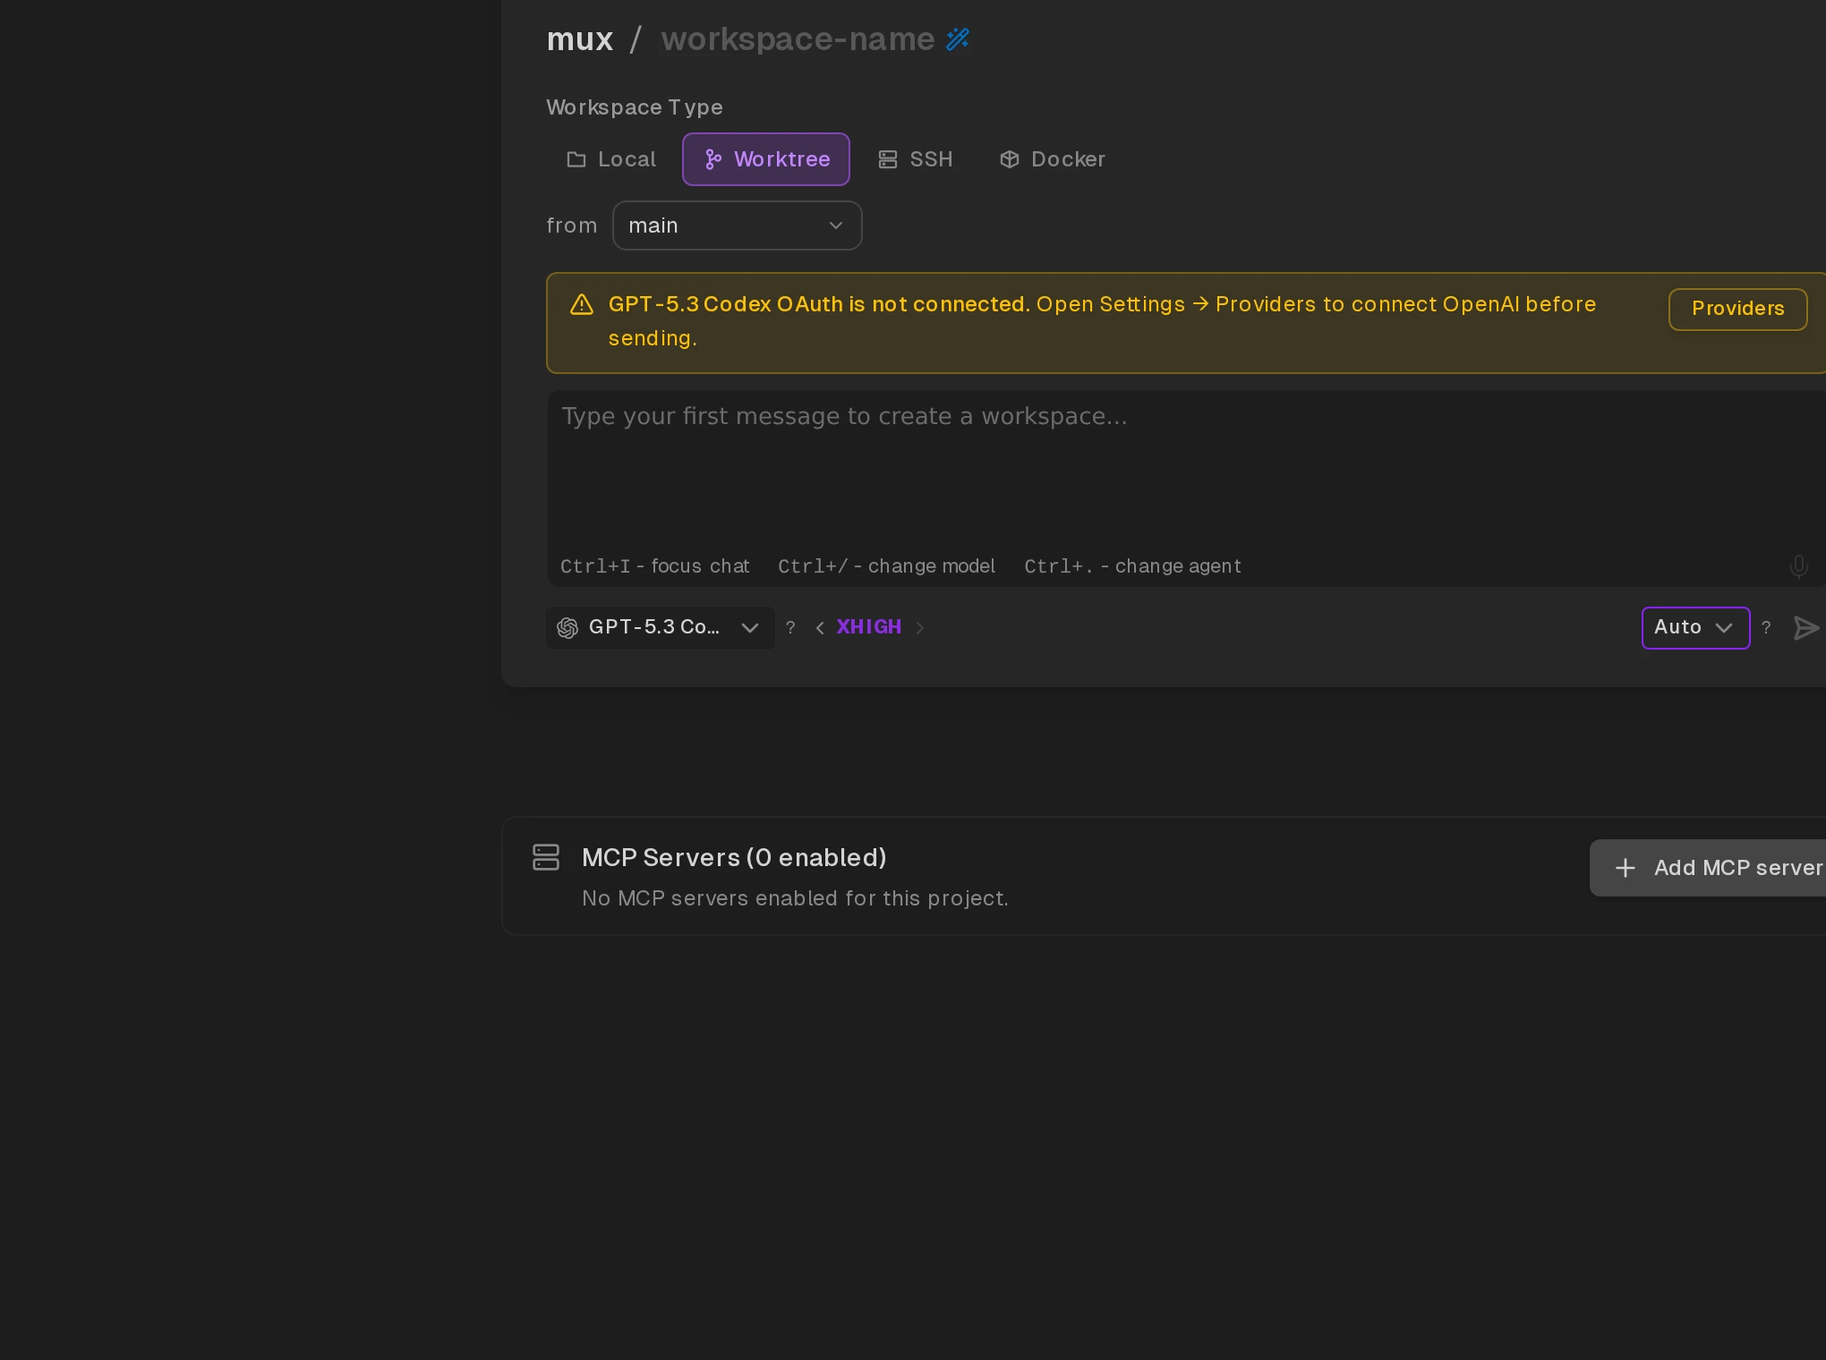
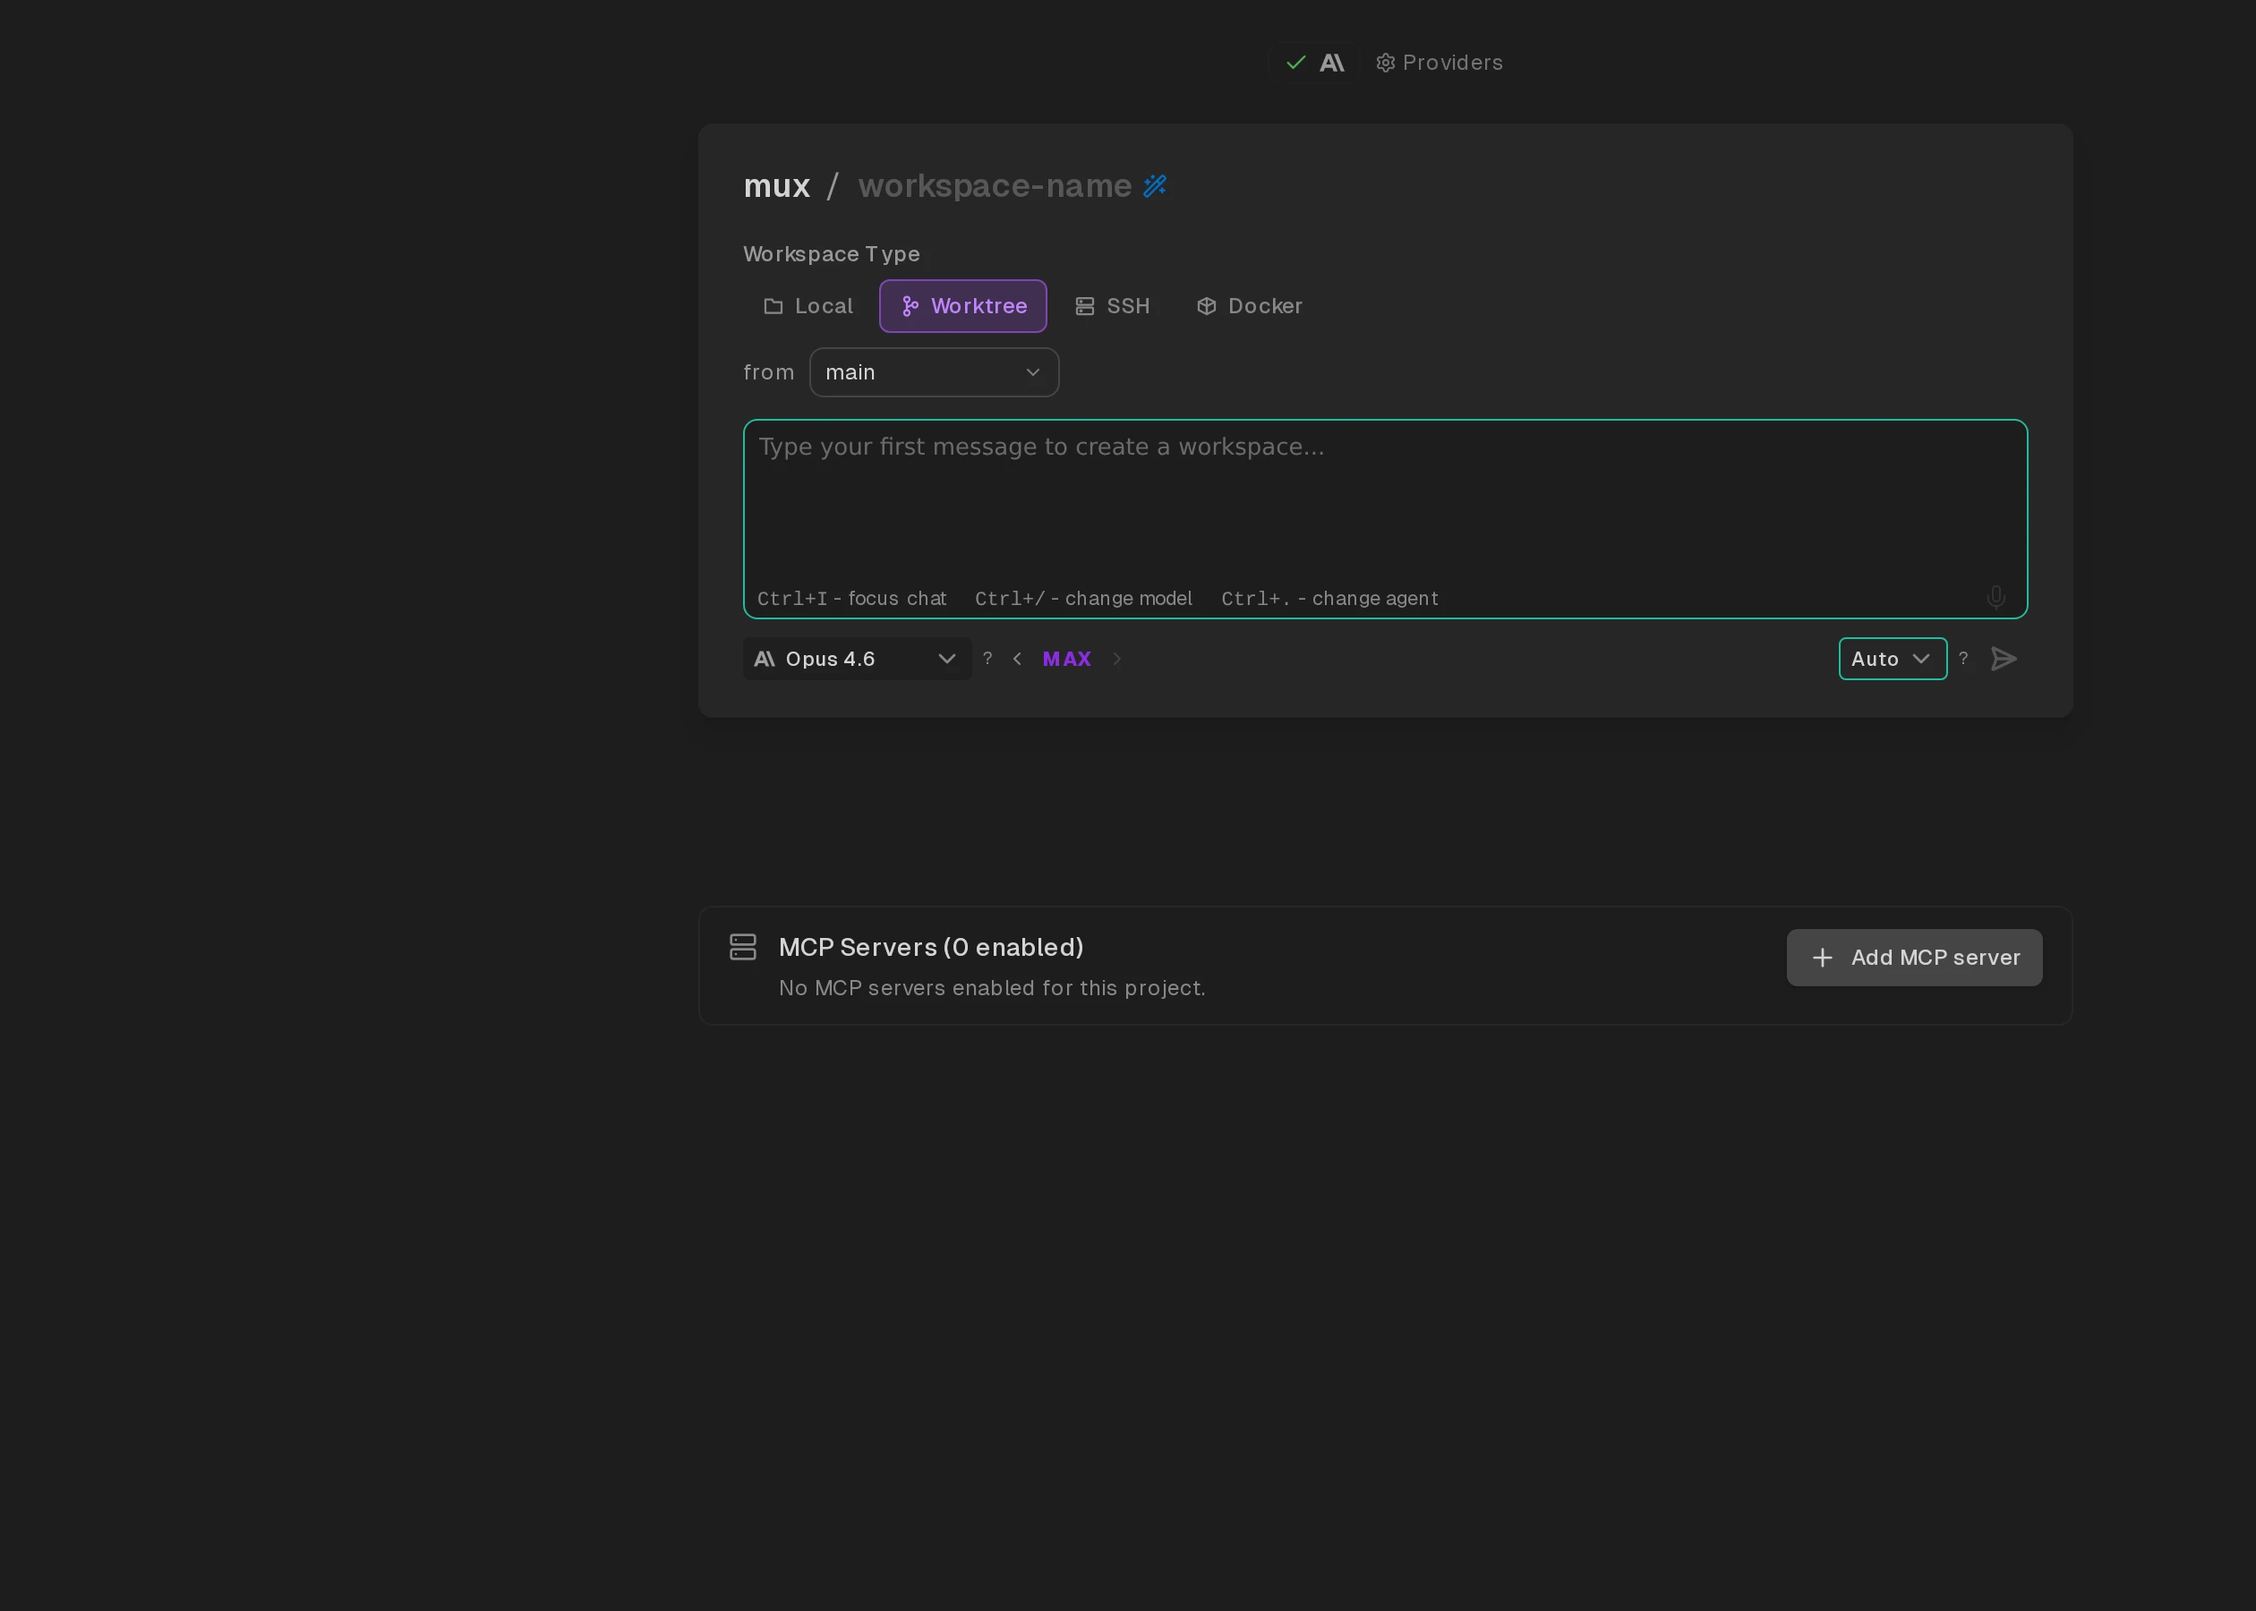
🤖 tests: fix auto and mobile README screenshot composition

diff --git a/scripts/capture-readme-screenshots.ts b/scripts/capture-readme-screenshots.ts
@@ -14,7 +14,7 @@
 
 import { parseArgs } from "node:util";
 import path from "node:path";
-import { chromium, type Page } from "playwright";
+import { chromium, type BrowserContextOptions, type Page } from "playwright";
 import sharp from "sharp";
 
 // ---------------------------------------------------------------------------
@@ -65,6 +65,8 @@ interface StoryDef {
   clip?: { x: number; y: number; width: number; height: number };
   /** Optional per-story viewport override (CSS pixels). Defaults to global VIEWPORT. */
   viewport?: { width: number; height: number };
+  /** Optional context overrides for device-specific stories (mobile touch/user-agent). */
+  contextOptions?: BrowserContextOptions;
   /** Replicate the Storybook play function via Playwright interactions. */
   playInteraction?: (page: Page) => Promise<void>;
   /** Custom Sharp post-processing instead of the default full-page → WebP conversion. */
@@ -118,8 +120,8 @@ const STORIES: StoryDef[] = [
     exportName: "AutoModeAgentSwitching",
     storyId: `${STORY_ID_PREFIX}auto-mode-agent-switching`,
     outputFile: "auto-mode.webp",
-    // Zoom into the centered creation card so Auto + GPT-5.3 Codex + XHIGH are legible.
-    clip: { x: 430, y: 170, width: 1020, height: 760 },
+    // Keep the creation card centered with surrounding context so nothing is cut off.
+    clip: { x: 320, y: 120, width: 1260, height: 900 },
     playInteraction: async (page: Page) => {
       // Enter project creation view from the sidebar row.
       const projectRow = page
@@ -134,12 +136,12 @@ const STORIES: StoryDef[] = [
       await page
         .getByPlaceholder("Type your first message to create a workspace...")
         .waitFor({ timeout: 10_000 });
-      await creationCard.locator("[data-thinking-label]", { hasText: "XHIGH" }).waitFor({
+      await creationCard.locator("[data-thinking-label]", { hasText: "MAX" }).waitFor({
         timeout: 10_000,
       });
       await page
         .getByRole("combobox")
-        .filter({ hasText: /GPT[- ]5\.3/i })
+        .filter({ hasText: /Opus 4\.6/i })
         .first()
         .waitFor({
           timeout: 10_000,
@@ -177,8 +179,17 @@ const STORIES: StoryDef[] = [
     exportName: "MobileServerMode",
     storyId: `${STORY_ID_PREFIX}mobile-server-mode`,
     outputFile: "mobile-server-mode.webp",
-    viewport: { width: 430, height: 900 },
-    clip: { x: 0, y: 60, width: 430, height: 820 },
+    // Match the iPhone 17 Pro Max story viewport and capture full visible screen.
+    viewport: { width: 440, height: 956 },
+    contextOptions: {
+      hasTouch: true,
+      isMobile: true,
+      userAgent:
+        "Mozilla/5.0 (iPhone; CPU iPhone OS 18_0 like Mac OS X) AppleWebKit/605.1.15 (KHTML, like Gecko) Version/18.0 Mobile/15E148 Safari/604.1",
+    },
+    // Preserve native iPhone aspect/detail for mobile composition (no crop, no upscale).
+    postProcess: async (pngBuffer: Buffer) =>
+      sharp(pngBuffer).webp({ quality: WEBP_QUALITY }).toBuffer(),
   },
   {
     exportName: "OrchestrateAgents",
@@ -231,11 +242,12 @@ async function main() {
   }
 
   const browser = await chromium.launch();
-  const context = await browser.newContext({
+  const baseContextOptions: BrowserContextOptions = {
     viewport: VIEWPORT,
     deviceScaleFactor: DEVICE_SCALE_FACTOR,
     colorScheme: "dark",
-  });
+  };
+  const defaultContext = await browser.newContext(baseContextOptions);
 
   const succeeded: string[] = [];
   const failed: string[] = [];
@@ -256,62 +268,69 @@ async function main() {
         console.log(`  retry ${attempt}/${MAX_RETRIES}...`);
       }
 
-      const page = await context.newPage();
+      const attemptContext = story.contextOptions
+        ? await browser.newContext({ ...baseContextOptions, ...story.contextOptions })
+        : defaultContext;
       try {
-        if (story.viewport) {
-          await page.setViewportSize(story.viewport);
+        const page = await attemptContext.newPage();
+        try {
+          if (story.viewport) {
+            await page.setViewportSize(story.viewport);
+          }
+
+          // Navigate and wait for network idle + DOM stability.
+          await page.goto(iframeUrl(story.storyId), {
+            waitUntil: "networkidle",
+            timeout: 30_000,
+          });
+
+          // Stabilization delay for async renders (git status polling, mermaid,
+          // Radix portals). 3s handles slower static servers in batch mode.
+          await page.waitForTimeout(3_000);
+
+          // Run play-function interactions if the story requires them.
+          if (story.playInteraction) {
+            await story.playInteraction(page);
+            // Allow UI to settle after interactions.
+            await page.waitForTimeout(500);
+          }
+
+          // Capture the visible viewport only — fullPage would include off-screen
+          // scrollable content, producing absurdly tall images for stories with
+          // long sidebars or chat histories. Stories may also provide a focused
+          // clip region (in CSS pixels) for zoomed-in README screenshots.
+          const pngBuffer = await page.screenshot({
+            type: "png",
+            ...(story.clip ? { clip: story.clip } : {}),
+          });
+
+          // Convert to WebP (or run custom post-processing).
+          // For full-viewport captures, resize from native DPR resolution to TARGET_WIDTH.
+          // For clipped captures, preserve the native DPR resolution and only encode to WebP.
+          let webpBuffer: Buffer;
+          if (story.postProcess) {
+            webpBuffer = await story.postProcess(Buffer.from(pngBuffer));
+          } else {
+            const image = sharp(pngBuffer);
+            webpBuffer = story.clip
+              ? await image.webp({ quality: WEBP_QUALITY }).toBuffer()
+              : await image
+                  .resize({ width: TARGET_WIDTH, kernel: "lanczos3" })
+                  .webp({ quality: WEBP_QUALITY })
+                  .toBuffer();
+          }
+
+          await Bun.write(outputPath, webpBuffer);
+
+          // Report dimensions and size.
+          const meta = await sharp(webpBuffer).metadata();
+          console.log(`  ${meta.width}×${meta.height}  ${formatBytes(webpBuffer.byteLength)}`);
+          succeeded.push(story.exportName);
+          captured = true;
+          break; // Success — no more retries.
+        } finally {
+          await page.close();
         }
-
-        // Navigate and wait for network idle + DOM stability.
-        await page.goto(iframeUrl(story.storyId), {
-          waitUntil: "networkidle",
-          timeout: 30_000,
-        });
-
-        // Stabilization delay for async renders (git status polling, mermaid,
-        // Radix portals). 3s handles slower static servers in batch mode.
-        await page.waitForTimeout(3_000);
-
-        // Run play-function interactions if the story requires them.
-        if (story.playInteraction) {
-          await story.playInteraction(page);
-          // Allow UI to settle after interactions.
-          await page.waitForTimeout(500);
-        }
-
-        // Capture the visible viewport only — fullPage would include off-screen
-        // scrollable content, producing absurdly tall images for stories with
-        // long sidebars or chat histories. Stories may also provide a focused
-        // clip region (in CSS pixels) for zoomed-in README screenshots.
-        const pngBuffer = await page.screenshot({
-          type: "png",
-          ...(story.clip ? { clip: story.clip } : {}),
-        });
-
-        // Convert to WebP (or run custom post-processing).
-        // For full-viewport captures, resize from native DPR resolution to TARGET_WIDTH.
-        // For clipped captures, preserve the native DPR resolution and only encode to WebP.
-        let webpBuffer: Buffer;
-        if (story.postProcess) {
-          webpBuffer = await story.postProcess(Buffer.from(pngBuffer));
-        } else {
-          const image = sharp(pngBuffer);
-          webpBuffer = story.clip
-            ? await image.webp({ quality: WEBP_QUALITY }).toBuffer()
-            : await image
-                .resize({ width: TARGET_WIDTH, kernel: "lanczos3" })
-                .webp({ quality: WEBP_QUALITY })
-                .toBuffer();
-        }
-
-        await Bun.write(outputPath, webpBuffer);
-
-        // Report dimensions and size.
-        const meta = await sharp(webpBuffer).metadata();
-        console.log(`  ${meta.width}×${meta.height}  ${formatBytes(webpBuffer.byteLength)}`);
-        succeeded.push(story.exportName);
-        captured = true;
-        break; // Success — no more retries.
       } catch (err) {
         const message = err instanceof Error ? err.message : String(err);
         if (attempt < MAX_RETRIES) {
@@ -320,7 +339,9 @@ async function main() {
           console.error(`  FAILED after ${MAX_RETRIES} attempts: ${message}`);
         }
       } finally {
-        await page.close();
+        if (attemptContext !== defaultContext) {
+          await attemptContext.close();
+        }
       }
     }
 
@@ -329,6 +350,7 @@ async function main() {
     }
   }
 
+  await defaultContext.close();
   await browser.close();
 
   // Summary.

diff --git a/src/browser/stories/App.readmeScreenshots.stories.tsx b/src/browser/stories/App.readmeScreenshots.stories.tsx
@@ -73,6 +73,12 @@ export default {
 const README_PROJECT_NAME = "mux";
 const README_PROJECT_PATH = "/home/user/projects/mux";
 
+const IPHONE_17_PRO_MAX = {
+  // Source: https://ios-resolution.info/ (logical resolution)
+  width: 440,
+  height: 956,
+} as const;
+
 function createMultiModelSessionUsage(totalUsd: number): MockSessionUsage {
   // Split cost into model rows to make the Costs tab look realistic (cached + cacheCreate present).
   const primary = totalUsd * 0.62;
@@ -962,7 +968,7 @@ graph TD
 
 // README: docs/img/auto-mode.webp
 // Zoomed-in creation view that highlights project-scoped defaults before first send:
-// Auto agent mode, GPT-5.3 Codex, and XHIGH thinking.
+// Auto agent mode, Claude Opus 4.6, and MAX thinking.
 export const AutoModeAgentSwitching: AppStory = {
   render: () => (
     <AppWithMocks
@@ -973,7 +979,7 @@ export const AutoModeAgentSwitching: AppStory = {
         window.localStorage.setItem(getAgentIdKey(projectScopeId), JSON.stringify("orchestrator"));
         window.localStorage.setItem(
           getModelKey(projectScopeId),
-          JSON.stringify("openai:gpt-5.3-codex")
+          JSON.stringify("anthropic:claude-opus-4-6")
         );
         window.localStorage.setItem(getThinkingLevelKey(projectScopeId), JSON.stringify("xhigh"));
 
@@ -1021,6 +1027,7 @@ export const AutoModeAgentSwitching: AppStory = {
               uiSelectable: true,
               subagentRunnable: false,
               base: "exec",
+              uiColor: "var(--color-auto-mode)",
             },
             {
               id: "compact",
@@ -1237,11 +1244,18 @@ export const ContextManagementDialog: AppStory = {
 };
 
 // README: docs/img/mobile-server-mode.webp
-// Mobile-width workspace view to document server-mode responsiveness.
+// iPhone 17 Pro Max-sized workspace view to document server-mode responsiveness.
 export const MobileServerMode: AppStory = {
   decorators: [
     (Story: () => JSX.Element) => (
-      <div style={{ width: 430, height: "100dvh", position: "relative" }}>
+      <div
+        style={{
+          width: IPHONE_17_PRO_MAX.width,
+          height: IPHONE_17_PRO_MAX.height,
+          overflow: "hidden",
+          position: "relative",
+        }}
+      >
         <Story />
       </div>
     ),
